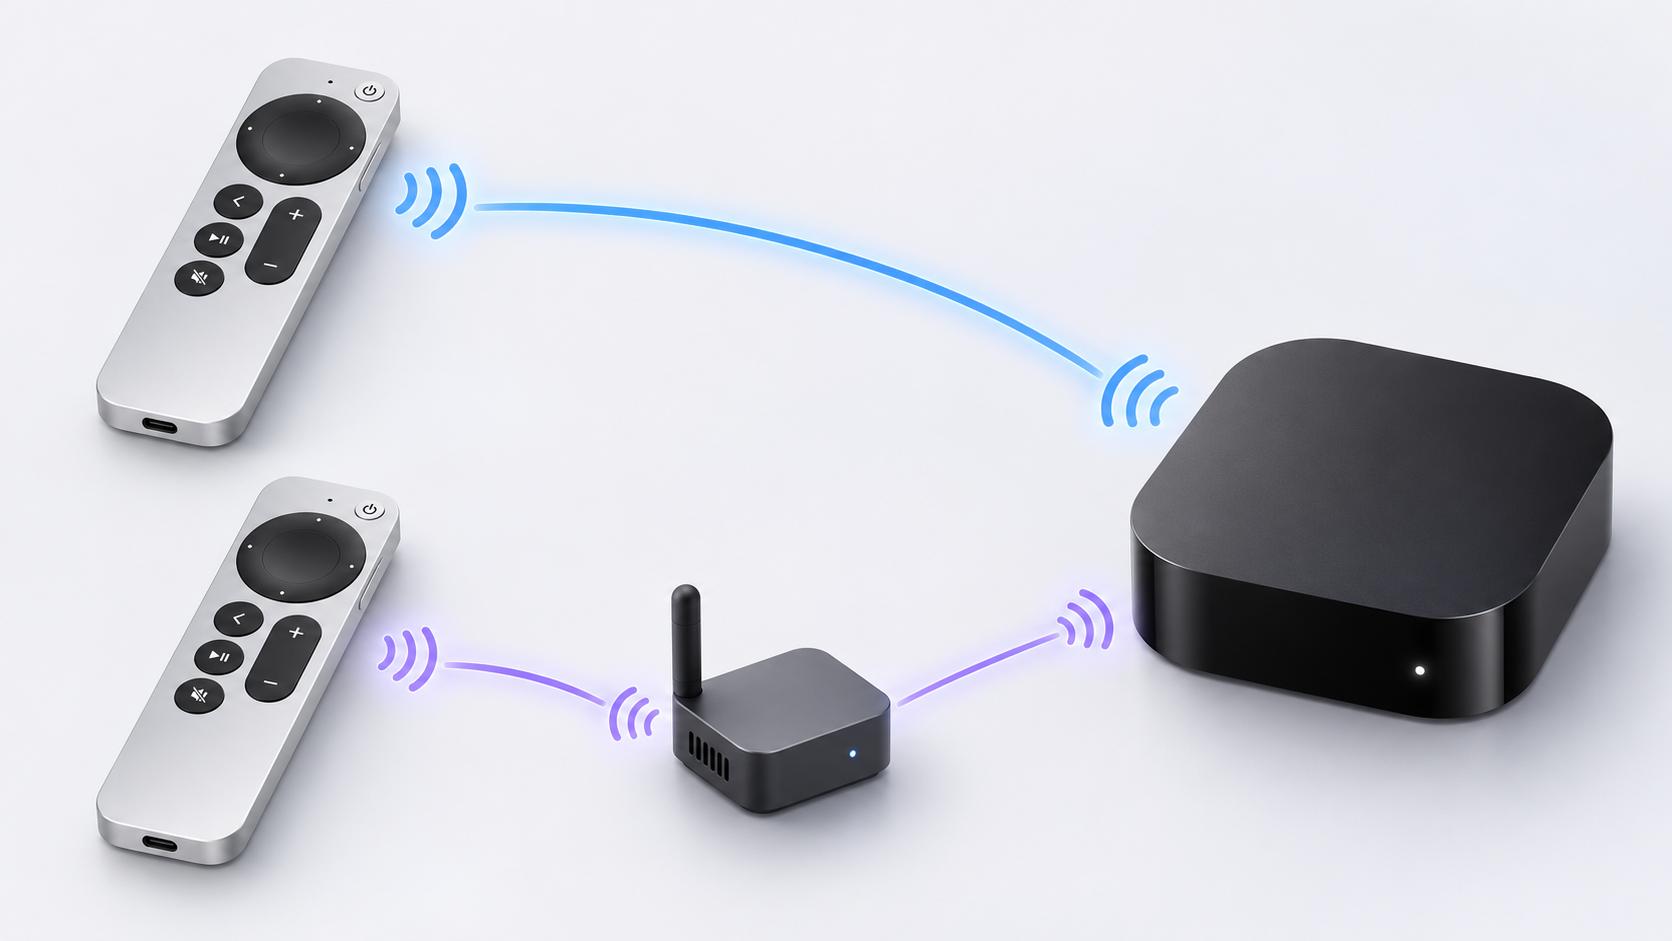
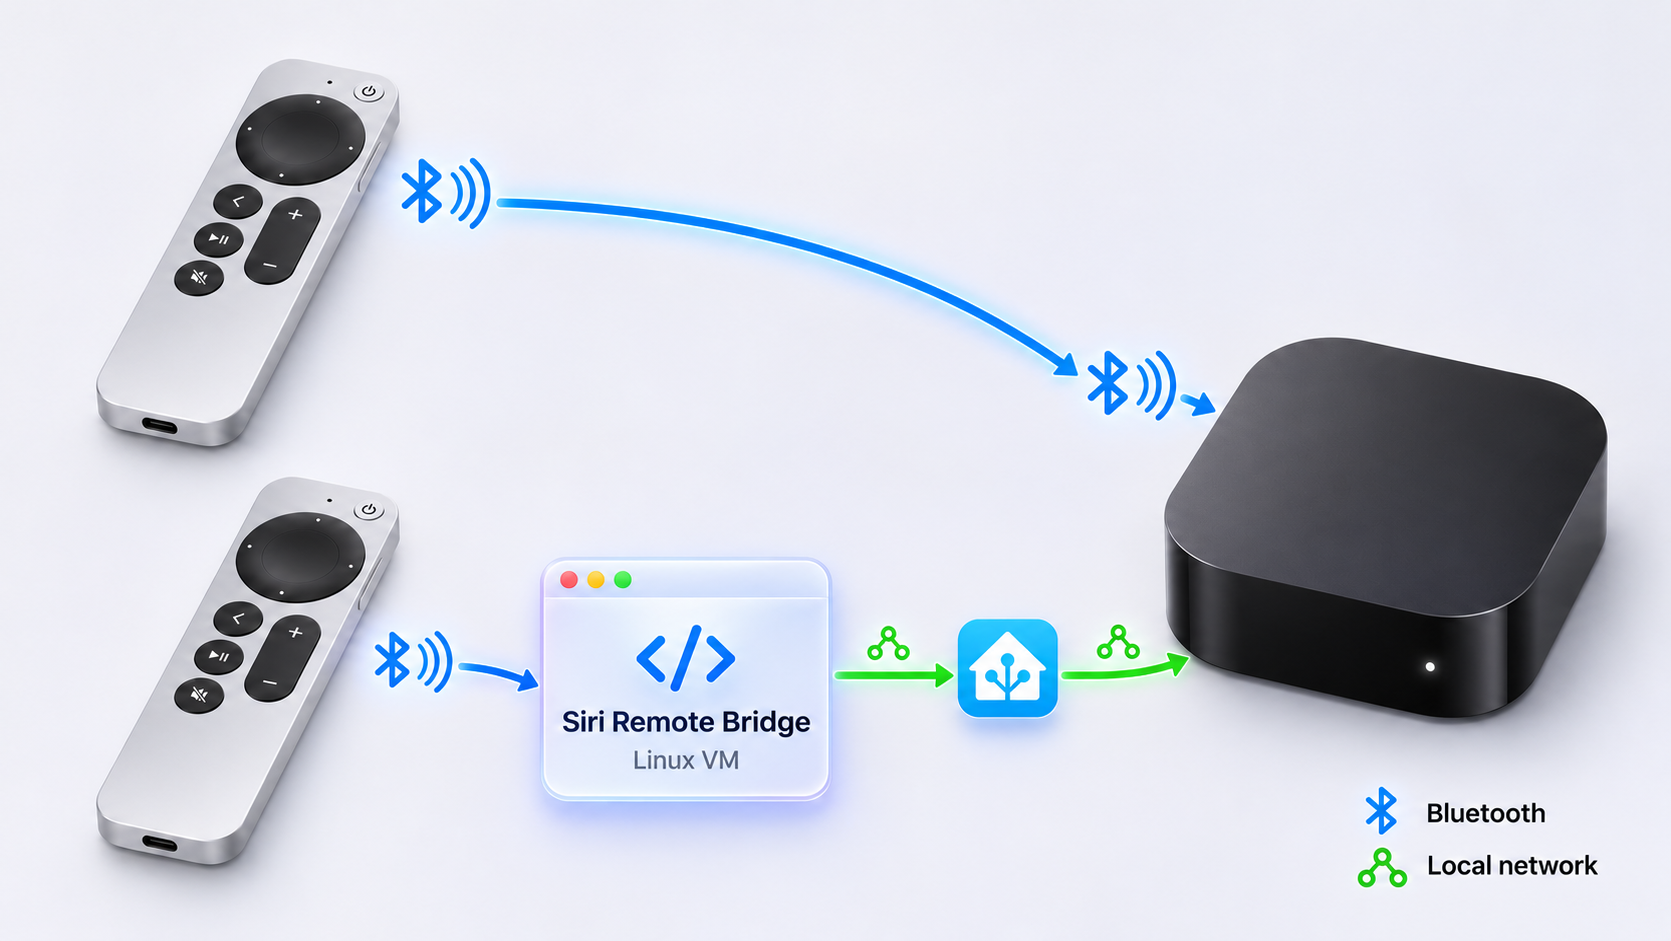
docs: distinguish Bluetooth and network paths in hero

diff --git a/README.md b/README.md
@@ -6,10 +6,11 @@ this bridge sends its buttons through Home Assistant to the **same Apple TV**.
 Both remotes can control it at the same time. This also helps when the Apple TV
 is hidden or too far away for a reliable direct Bluetooth connection.
 
-![Two Siri Remotes controlling one Apple TV: the main remote connects directly, while the additional remote connects through a Linux receiver](docs/assets/two-remotes-one-apple-tv.png)
+![Two Siri Remotes controlling one Apple TV: blue Bluetooth links connect the main remote directly and the added remote to the virtual bridge; green local-network links route the bridge through Home Assistant](docs/assets/two-remotes-one-apple-tv.png)
 
-*The upper remote is paired directly with Apple TV; the lower remote is paired
-with the receiver. The receiver sends its commands over the local network.*
+*Blue shows Bluetooth; green shows the local network (Wi-Fi or Ethernet). The
+floating Siri Remote Bridge panel is software running on Linux, shown here in a
+VM. Home Assistant forwards the added remote's commands to Apple TV.*
 
 The added remote handles most everyday buttons: navigation, Select and held
 Select, Back, Home, playback, volume, and Power. Siri voice and touch swipes are
